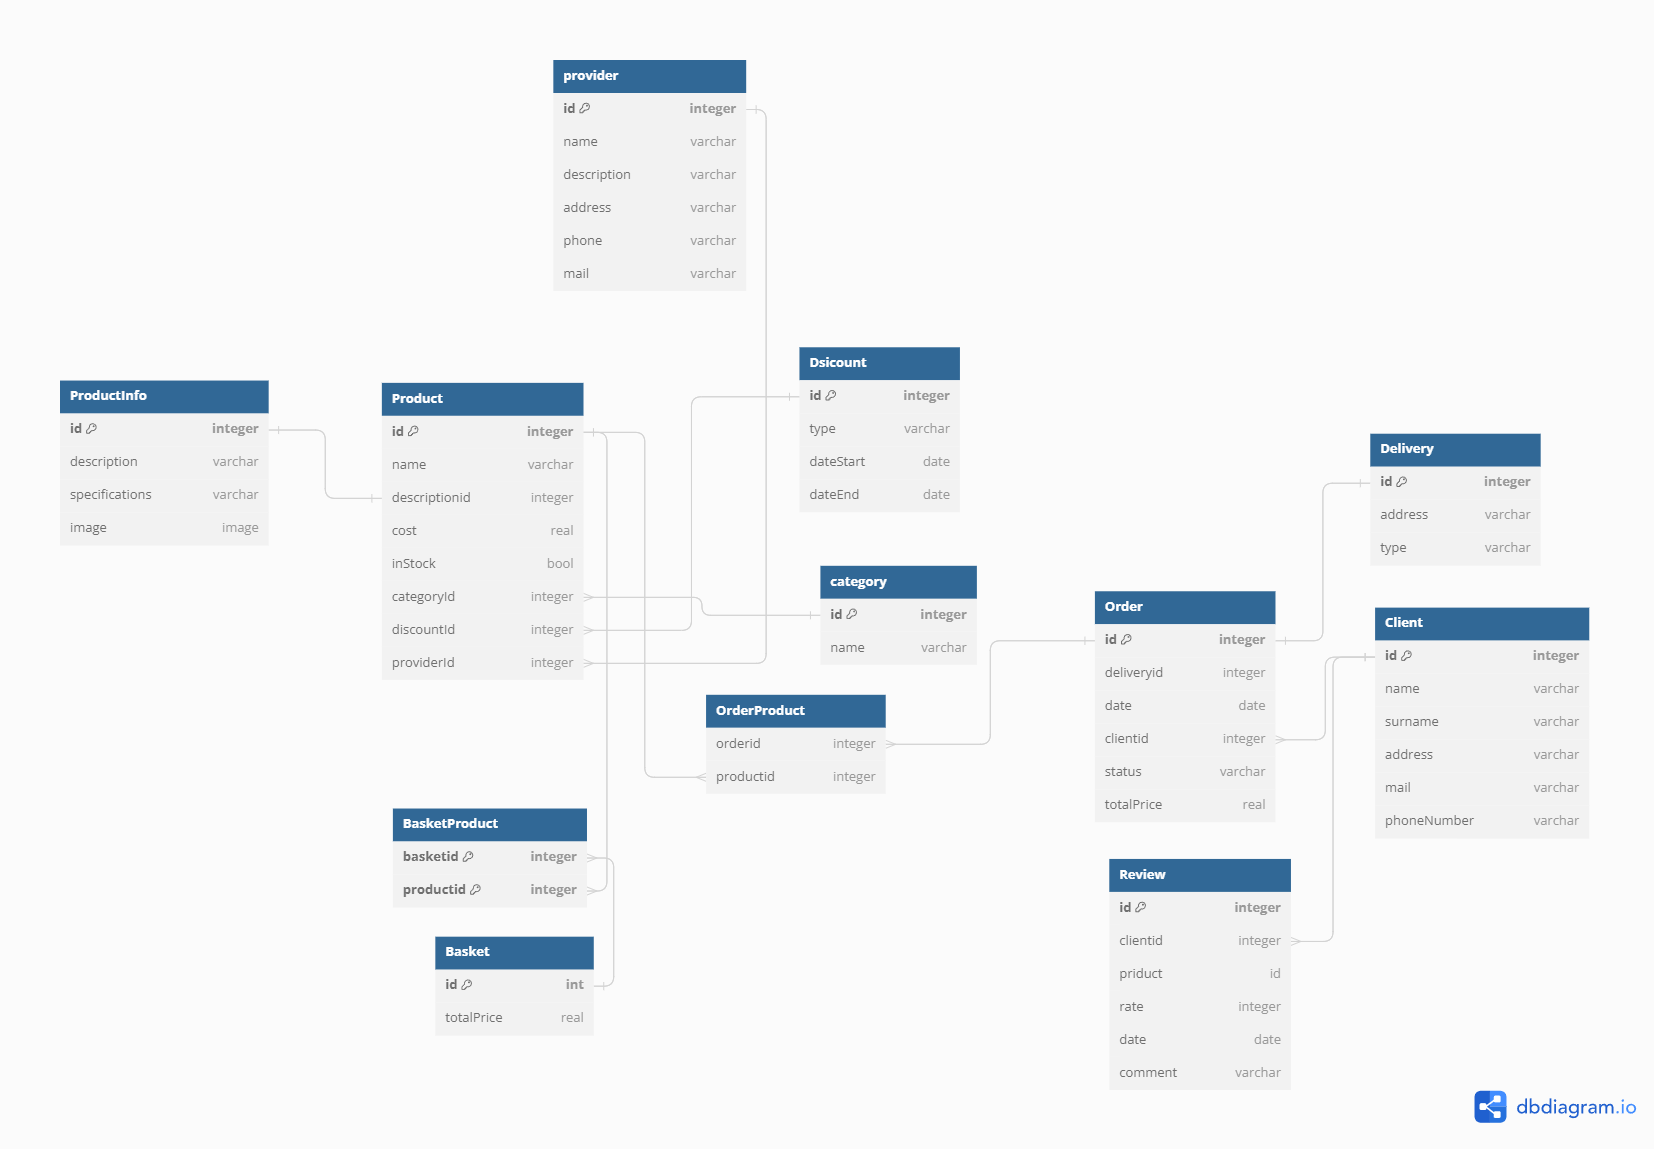
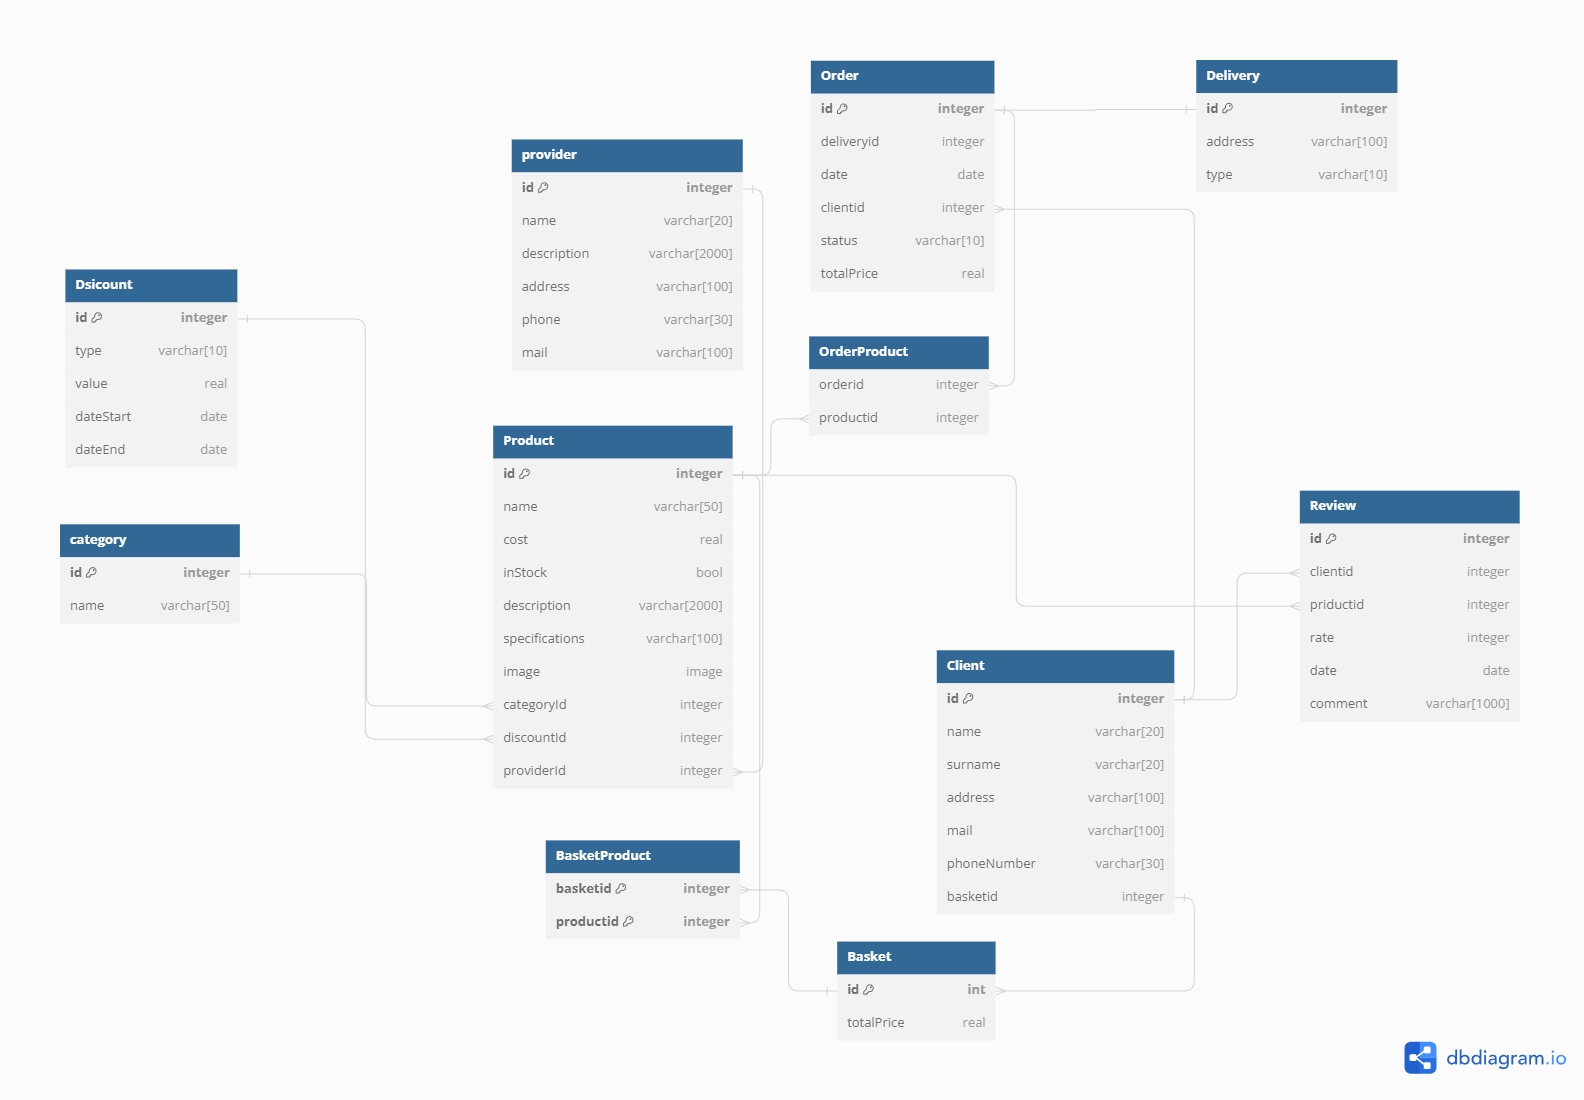
Add files via upload

diff --git a/readme.md b/readme.md
@@ -67,7 +67,9 @@
 Товар должен иметь следующие атрибуты:
 - ID товара (уникальный идентификатор)
 - Название товара
-- Подробное описание (ссылка на таблицу "Описание товара")
+- Описание
+- Изображение
+- Характеристики
 - Цена
 - Категория товара
 - Наличие товара (количество доступных единиц)
@@ -86,23 +88,13 @@
 Скидка должна иметь следующие атрибуты:
 - ID скидки (уникальный идентификатор)
 - Тип скидки (процент, фиксированная, купон, бонусные баллы)
+- Значение скидки
 - Дата начала
 - Дата окончания
 - Описание
 
 Связи:
 - Один ко многим с **Product** (Товар)
-
-
-## Описание товара
-Описание товара должно иметь следующие атрибуты:
-- ID описания товара (уникальный идентификатор)
-- Описание
-- Изображение
-- Характеристики
-
-Связи:
-- Один к одному с **Product** (Товар)
 
 ## Категория
 Категория должна иметь следующие атрибуты:
@@ -117,8 +109,10 @@
 - ID корзины (уникальный идентификатор)
 - Полная стоимость корзины
 
+
 Связи:
 - Многие ко многим с **Product** (Товар)
+- Один к одному с **Client** (Клиент)
 
 ## Заказ
 Заказ должен иметь следующие атрибуты:
